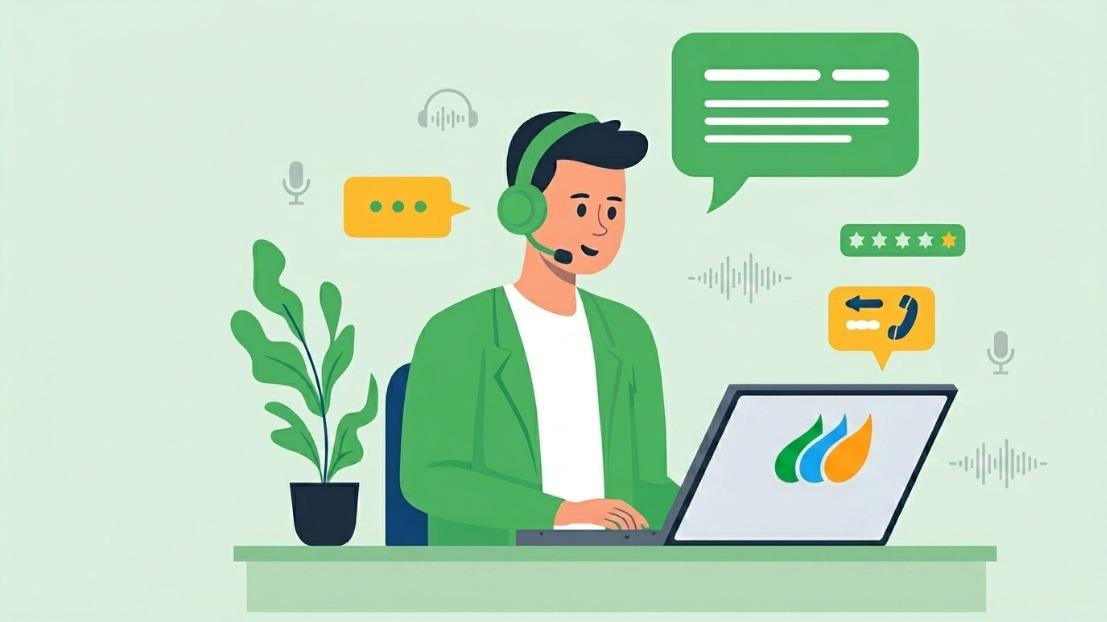
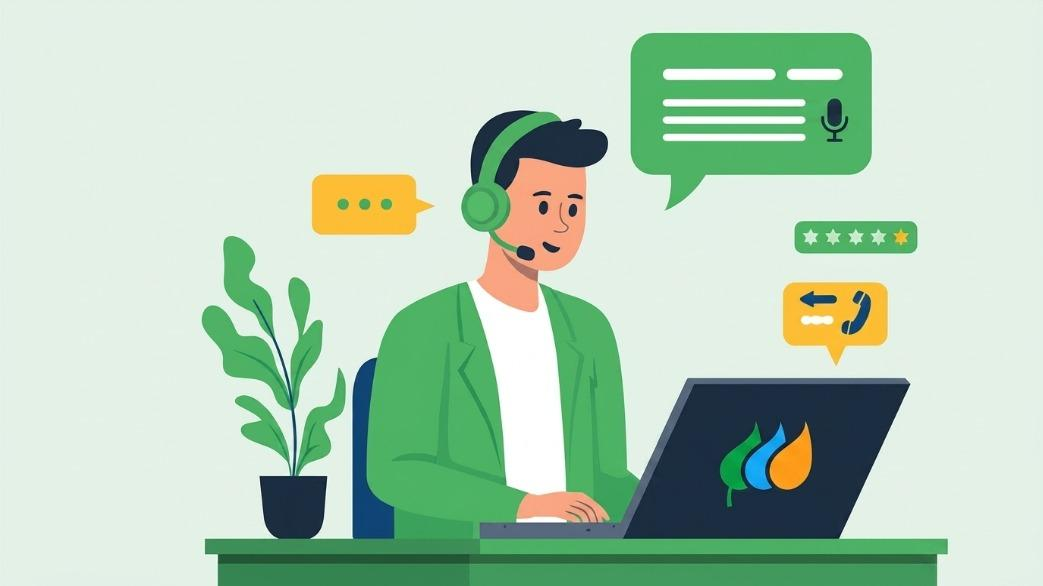
API Changes

diff --git a/src/app/vpi-table/vpi-table.component.ts b/src/app/vpi-table/vpi-table.component.ts
@@ -19,7 +19,7 @@ import { takeUntilDestroyed } from '@angular/core/rxjs-interop';
 import { ProgressSpinnerModule } from 'primeng/progressspinner';
 import { ToastModule } from 'primeng/toast';
 import { MessageService } from 'primeng/api';
-import { catchError, Observable, of, tap, throwError } from 'rxjs';
+import { catchError, debounceTime, firstValueFrom, from, Observable, of, switchMap, tap, throwError } from 'rxjs';
 import { HttpErrorResponse } from '@angular/common/http';
 import { TooltipModule } from 'primeng/tooltip';
 import { ApiCallsService } from 'services/api-calls.service';
@@ -130,69 +130,70 @@ export class VpiTableComponent {
   }
 
   public onRowClick(rowData: VPIDataItem) {
+    of(rowData).pipe(
+      debounceTime(500),
+      switchMap((data) => from(this.loadDataAsync(data)))
+    ).subscribe();
+  }
+
+  private async loadDataAsync(rowData: VPIDataItem): Promise<void> {
     this._dataService.loadingAudioFile.set(true);
     this.clearWaveform();
-
     this.audioUrl = null;
-    this._apiService.getMetaData(rowData.objectId, this.getSelectedOpcode()).pipe(
-      catchError((error: HttpErrorResponse) => {
-        this._router.navigate(['/error'], {
-          state: { error: error.error }
-        });
+    this.hasErrorForAudioFile = false;
+    this.audioErrorMessage = "";
 
-        return of(null);
-      })
-    ).subscribe((metadata) => {
-      if (!metadata) {
-        this._dataService.loadingAudioFile.set(false);
-        return;
-      }
-      this.selectedRowData = metadata;
-      if (this.selectedRowData) {
-        this.rowSelected = true;
-      }
-      this.audioPopUpVisible = true;
-      const isAlreadySelected = this.selectedRow.some(
-        (row: VPIDataItem) => row.objectId === metadata.objectId
+    const audioRecordingInput = {
+      date: rowData.startTime ? rowData.startTime : '',
+      opco: this._dataService.selectedOpcode() ?? '',
+      username: rowData.username ? rowData.username : '',
+      aniAliDigits: rowData.aniAliDigits ? rowData.aniAliDigits : '',
+      extensionNum: rowData.extensionNum ? rowData.extensionNum : '',
+      channelNum: rowData.channelNum ? rowData.channelNum : 0,
+      objectId: rowData.objectId ? rowData.objectId : '',
+      duration: rowData.duration ? rowData.duration : 0
+    };
+
+    try {
+      const metadata = await firstValueFrom(
+        this._apiService.getMetaData(rowData.objectId, this.getSelectedOpcode())
       );
-      if (isAlreadySelected) {
-        this.selectedRowData.isChecked = false;
-        this.selectedRow = this.selectedRow.filter(
-          (row: VPIDataItem) =>
-            row.objectId !== metadata.objectId
-        );
-      }
-      this.audioUrl = null;
-      const audioRecordingInput = {
-        date: rowData.startTime ? rowData.startTime : '',
-        opco: this._dataService.selectedOpcode() ?? '',
-        username: rowData.username ? rowData.username : '',
-        aniAliDigits: rowData.aniAliDigits ? rowData.aniAliDigits : '',
-        extensionNum: rowData.extensionNum ? rowData.extensionNum : '',
-        channelNum: rowData.channelNum ? rowData.channelNum : 0,
-        objectId: rowData.objectId ? rowData.objectId : '',
-        duration: rowData.duration ? rowData.duration : 0
-      };
 
-      this._apiService.getAudioRecordings(audioRecordingInput).pipe(
-        catchError(async (err: HttpErrorResponse) => {
-          this.handleAudioError(err);
-          return null;
-        })
-      ).subscribe((audioFile) => {
+      if (metadata) {
+        this.selectedRowData = metadata;
+        this.rowSelected = true;
+        this.audioPopUpVisible = true;
+
+        const isAlreadySelected = this.selectedRow.some(
+          (row: VPIDataItem) => row.objectId === metadata.objectId
+        );
+        if (isAlreadySelected) {
+          this.selectedRowData.isChecked = false;
+          this.selectedRow = this.selectedRow.filter(
+            (row: VPIDataItem) => row.objectId !== metadata.objectId
+          );
+        }
+      }
+
+      const audioFile = await firstValueFrom(
+        this._apiService.getAudioRecordings(audioRecordingInput)
+      );
+
+      if (audioFile instanceof Blob) {
         this.hasErrorForAudioFile = false;
         this.audioErrorMessage = "";
-        if (audioFile) {
-          this._dataService.loadingAudioFile.set(false);
-          this.clearWaveform();
-          this.audioUrl = URL.createObjectURL(audioFile);
-          setTimeout(() => this.waveform(), 0);
-        } else {
-          this._dataService.loadingAudioFile.set(false);
-        }
-      });
+        this.clearWaveform();
+        this.audioUrl = URL.createObjectURL(audioFile);
+        setTimeout(() => this.waveform(), 0);
+      }
 
-    });
+    } catch (error) {
+      await this.handleAudioError(error as HttpErrorResponse);
+      this.audioPopUpVisible = true;
+
+    } finally {
+      this._dataService.loadingAudioFile.set(false);
+    }
   }
 
   private async handleAudioError(error: HttpErrorResponse) {
@@ -308,10 +309,9 @@ export class VpiTableComponent {
 
   }
 
-
   convertUtcToEst(value: string): string {
-    if (!value)  {
-     return '';
+    if (!value) {
+      return '';
     }
     const utcDate = new Date(value + ' UTC');
 
@@ -326,5 +326,5 @@ export class VpiTableComponent {
     }).format(utcDate);
   }
 
-  
+
 }

diff --git a/src/app/vpi-table/vpi-table.component.html b/src/app/vpi-table/vpi-table.component.html
@@ -26,9 +26,13 @@
 </div>
 
 <p-toast />
-<div class="spinner-container" *ngIf="loading()">
+<div class="spinner-container" *ngIf="loading() || _dataService.isOpcodeAvailable()">
   <p-progress-spinner ariaLabel="loading"></p-progress-spinner>
 </div>
+
+ 
+ 
+
  <p-table ngSkipHydration #dt class="custom-table" [scrollable]="_dataService.pagedDataSignal().length > 0"
   [scrollHeight]="_dataService.pagedDataSignal().length > 0 ? 'calc(100vh - 250px)' : undefined"
   size="small"
@@ -80,7 +84,7 @@
   <p-panel class="empty-panel no-padding">
           <div class="empty-message-container">
         <img src="assets/user.jpg" alt="Support illustration" class="dashboard-image" />
-        <p class="overlay-text">
+        <p  *ngIf="!_dataService.isOpcodeAvailable()" class="overlay-text">
           Please select an Opco using the
           <a class="filters-link" tabindex="0" (click)="_dataService.openDrawer.set(true)"
             (keydown.enter)="_dataService.onKeydown($event)" (keydown.space)="_dataService.onKeydown($event)">
@@ -88,6 +92,7 @@
           </a>
           to retrieve call records
         </p>
+        <p *ngIf="_dataService.isOpcodeAvailable()" class="overlay-text">Fetching OPCODES, please wait...</p>
       </div>
     </p-panel>
   </ng-template>
@@ -103,7 +108,9 @@
     'height': '40rem',
   }">
   <div class="card">
+  
     <p-progressbar mode="indeterminate" *ngIf="loadingAudioFile1()" [style]="{'height': '6px'}" />
+
   </div>
 
   
@@ -122,8 +129,7 @@
     </div>
   </ng-template>
 
-  <div *ngIf="hasErrorForAudioFile" class="audio-error"
-    style="display:flex; align-items:center; gap:10px; padding:1rem 0; color:#d32f2f;">
+  <div *ngIf="hasErrorForAudioFile" class="audio-error">
     <i class="pi pi-exclamation-circle" style="font-size:1.5rem;"></i>
     <div>
       <b>Recording Not Found</b>

diff --git a/src/app/vpi-table/vpi-table.component.scss b/src/app/vpi-table/vpi-table.component.scss
@@ -45,14 +45,19 @@ body {
   gap: 10px;
 }
 
+.progress-text {
+   font-weight: 500;
+  color: #555;
+}
 
 .audio-error {
   margin: 1rem auto;
   padding: 1rem;
   max-width: 800px;
   text-align: center;
-  background-color: #FFFFFF;
-  color: #b71c1c;
+  background: #FFF8E1;
+  border: 1px solid #FFE082;
+  color: rgb(249, 115, 22);
   font-weight: 600;
   box-shadow: 0 2px 6px rgba(0, 0, 0, 0.1);
 }
@@ -192,4 +197,3 @@ body {
   flex-direction: column;
   height: 100vh;
 }
- 

diff --git a/src/app/app.component.ts b/src/app/app.component.ts
@@ -82,6 +82,7 @@ export class AppComponent implements OnInit, OnDestroy {
     }
     this.apiService.getOPCODES().subscribe({
     next: (opcos) => {
+      this._dataService.isOpcodeAvailable.set(false);
       const mapped = opcos.includes('ADMIN')
         ? ADMIN_OPCODES.map(code => ({ name: code, code }))
         : opcos.filter(c => c !== 'ADMIN').map(code => ({ name: code, code }));
@@ -93,7 +94,11 @@ export class AppComponent implements OnInit, OnDestroy {
       if (opcoIsInvalid) {
         this._dataService.resetPayload();
       }
-    } 
+    } ,
+    error: (err) => {
+      this._dataService.isOpcodeAvailable.set(true);
+      console.error('Failed to load opcodes', err);
+    }
   });
 }
   private initMenus() {

diff --git a/src/interceptors/http-error.interceptor.ts b/src/interceptors/http-error.interceptor.ts
@@ -15,6 +15,13 @@ export class HttpErrorInterceptor implements HttpInterceptor {
   intercept(req: HttpRequest<unknown>, next: HttpHandler): Observable<HttpEvent<unknown>> {
     return next.handle(req).pipe(
     catchError((error: HttpErrorResponse) => {
+      const isRecordingRequest = req.url.includes('/audio/') || req.url.includes('/recording');
+
+      if (isRecordingRequest) {
+         return throwError(() => error);
+      }
+
+
         const apiError = {
           timestamp: new Date().toISOString(),
           status: error.status ?? 0,

diff --git a/src/services/data.service.ts b/src/services/data.service.ts
@@ -26,6 +26,7 @@ export class DataService {
   });
 
   public readonly drawerFormState = signal<SearchFilteredDataInput | undefined>(undefined);
+  public isOpcodeAvailable = signal<boolean>(false);
   public payload = this.payloadSignal;
 
   public getPayload() {